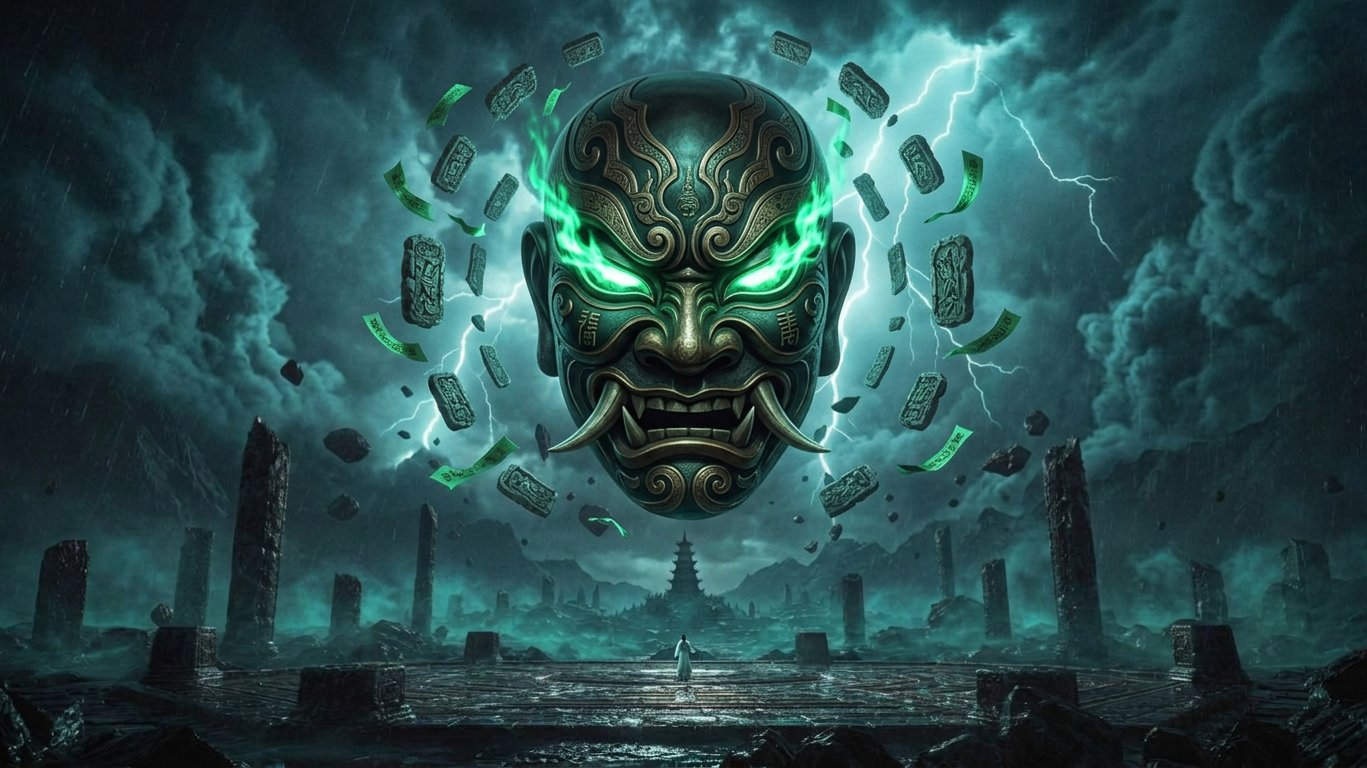
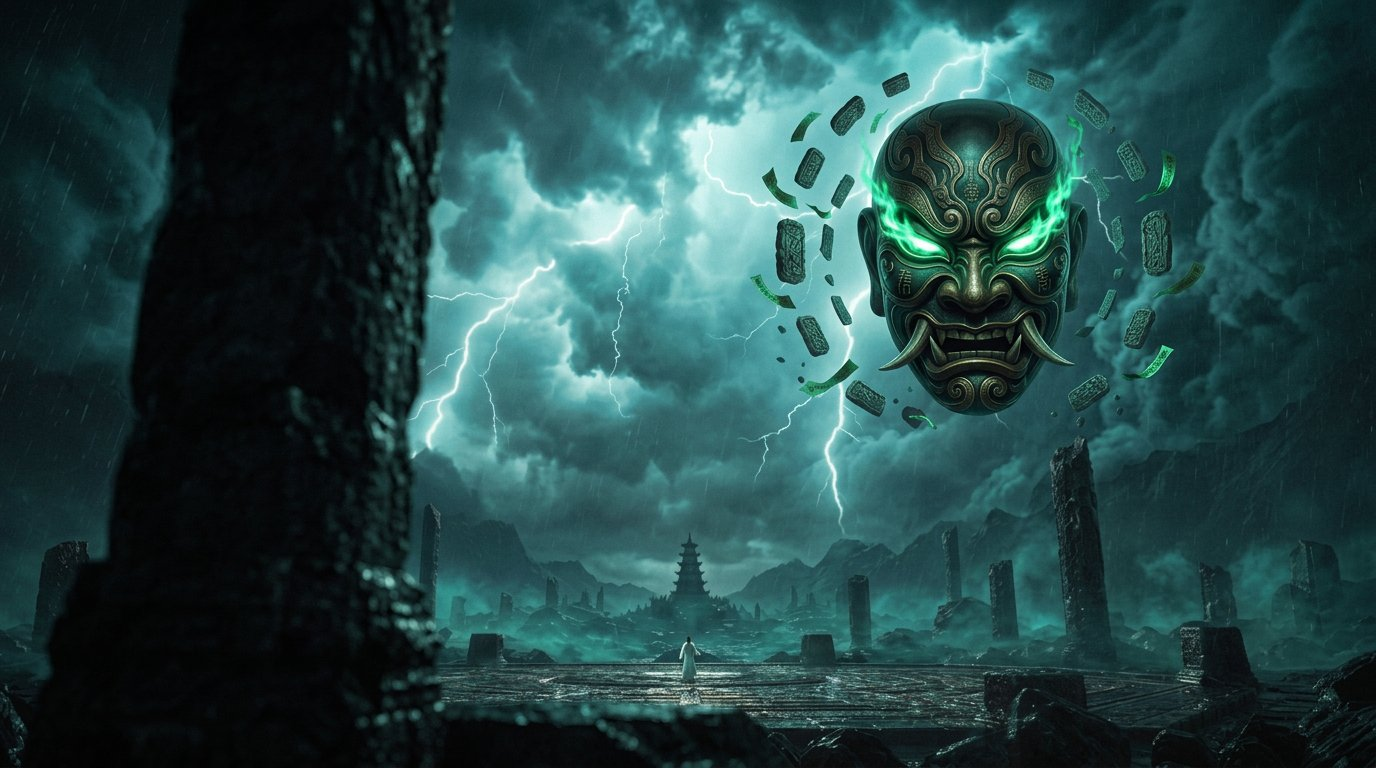
feat: 攻 5 项不足 —— 主体运动 / 高光 / 青绿 / 镜20 构图
1) 主体局部运动（主项）：8 个动作镜的 MID 层（人物所在带）加强
   漂移 ×2.2、形变 ×1.9。试渲镜10/16 局部运动 20->25.0，
   且人物轮廓完好（对比试验：仅加形变 21.0、仅加漂移 28.5）
   取舍：取组合而非单纯加大漂移，因为漂移是人物在画内移动，
   过大会显得主体与地面脱节
2) 高光 p95 186 vs 175：hi_roll 1.45 -> 1.62（收亮部软膝）
3) 青绿偏移 69.2 vs 63.4：teal_shadow 0.145 -> 0.130
4) 镜19-21 资产密度：逐镜实测 前段 13.96 / 后段 12.98（差 7%），
   上一轮修镜20 后断层已基本消除，真正偏低的是镜11/15/16（5.7/8.5/7.2）
5) 镜20 构图：以上一版为底，傩面缩小并偏右上，左下加入近景石柱作前景锚点

diff --git a/render/render_video.py b/render/render_video.py
@@ -26,11 +26,11 @@ FPS = 30
 
 # ------------------------------------------------------------------ 后期
 # 影调参数（可由 scripts/tune_grade.py 搜索；正式渲染以这里为准）
-GRADE = dict(bloom_th=0.75, bloom_gain=0.40, lift=0.014, teal_shadow=0.145,
+GRADE = dict(bloom_th=0.75, bloom_gain=0.40, lift=0.014, teal_shadow=0.130,
              # 亮度 66.6 vs 参考 71.7、暗部 p5 6.0 vs 9.0：
              # gamma 0.93→0.90 抬中间调，floor 0.045→0.058 抬黑位，hi_roll 防高光溢出
              contrast=1.17, sat=0.99, warm_hl=0.03, gamma=0.905, floor=0.030,
-             vig=0.82, top_dark=0.93, center=0.075, grain=1.5, hi_roll=1.45,
+             vig=0.82, top_dark=0.93, center=0.075, grain=1.5, hi_roll=1.62,
              black_lift=0.045, tint=(1.0, 1.0, 1.035), cool=(0.46, 0.58, 0.66))
 
 
